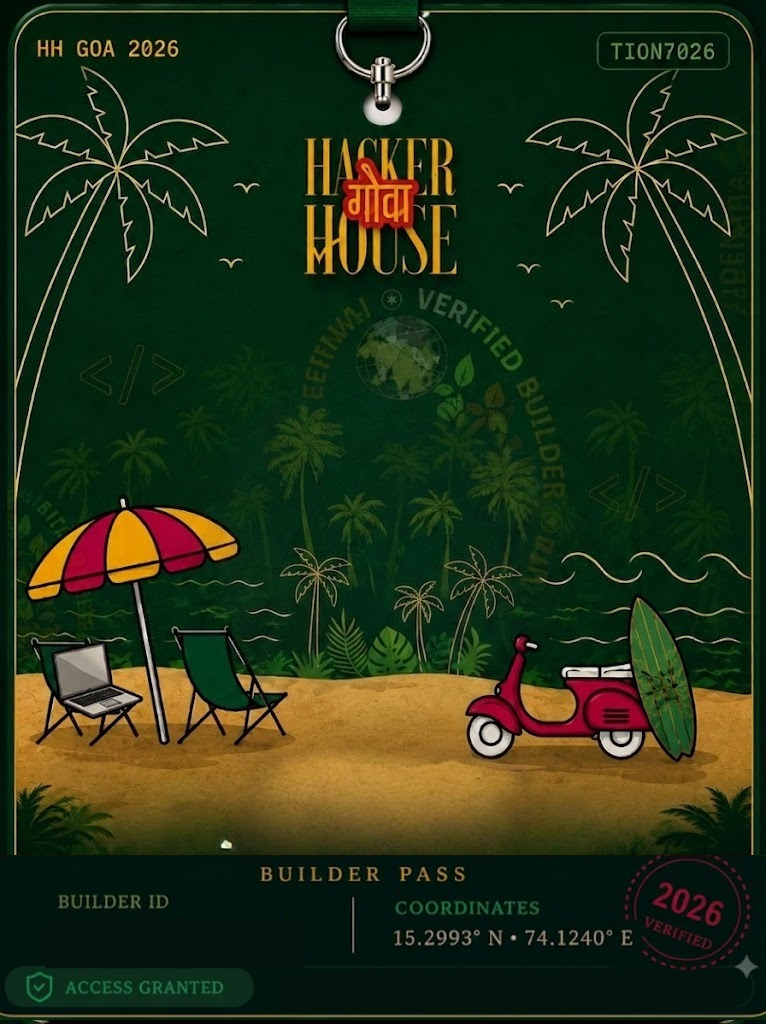
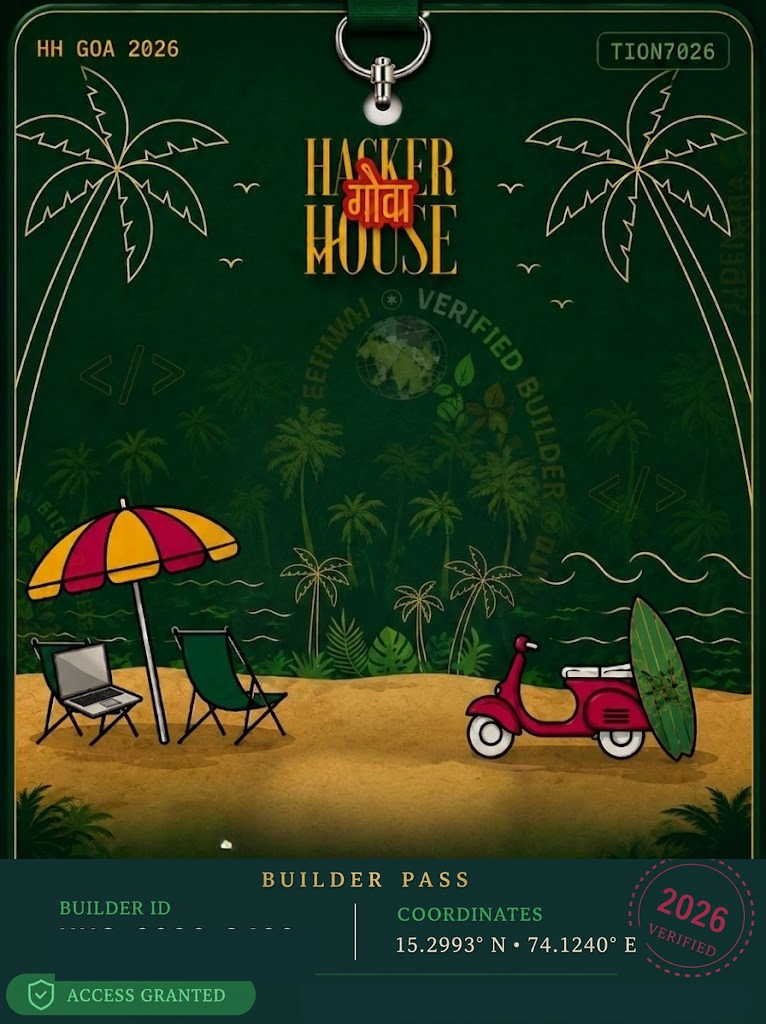
feat: update ID card template asset and refine overlay styling for serial number and issued date placement

Changed region(s): [[0.0, 0.8125, 1.0, 1.0]]

diff --git a/style.css b/style.css
@@ -1334,24 +1334,24 @@ body {
 /* Dynamic Builder ID & Footer Overlays (Hardcoded Issued 12 Aug 2026) */
 .card-serial-overlay {
   position: absolute;
-  top: 516px;
-  left: 55px;
+  top: 512px;
+  left: 32px;
   font-family: 'JetBrains Mono', monospace;
-  font-size: 0.82rem;
-  font-weight: 700;
-  color: #F5EEDB;
+  font-size: 0.88rem;
+  font-weight: 800;
+  color: #FFFFFF;
   letter-spacing: 0.5px;
   pointer-events: auto;
 }
 
 .card-footer-issued-overlay {
   position: absolute;
-  top: 544px;
-  right: 20px;
+  top: 543px;
+  right: 22px;
   font-family: 'JetBrains Mono', monospace;
   font-size: 0.58rem;
   font-weight: 700;
-  color: #8BA894;
+  color: #F5EEDB;
   letter-spacing: 0.5px;
   pointer-events: auto;
 }

diff --git a/index.html b/index.html
@@ -223,7 +223,7 @@
           <div id="idCard" class="id-card preview-element">
             
             <!-- Layer 1: Base Artwork Template (Contains hook, logo, palms, beach art, borders, Builder Pass section, coordinates, verified stamp, access granted pill) -->
-            <img src="template.png?v=20260812_nowhitespace_v8" alt="HH Goa Builder Pass Background" class="template-bg-img">
+            <img src="template.png?v=20260812_bottomref_v9" alt="HH Goa Builder Pass Background" class="template-bg-img">
 
             <div class="card-overlay-content">
               
